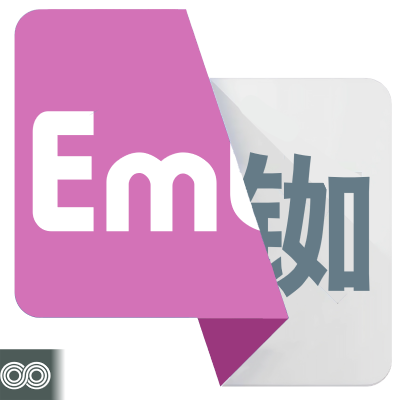
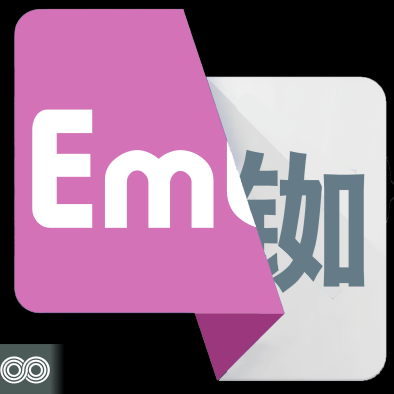
彩蛋逻辑+ icon更改   LZX-2026-04-01-006

diff --git a/src/main/java/me/loongly/mods/sclp/client/gui/SCLPGameOptionPages.java b/src/main/java/me/loongly/mods/sclp/client/gui/SCLPGameOptionPages.java
@@ -27,7 +27,14 @@ public class SCLPGameOptionPages
                         .setName(Text.translatable("sclp.options.trans_mod_name"))
                         .setTooltip(Text.translatable("sclp.options.trans_mod_name.tooltip"))
                         .setControl(TickBoxControl::new)
-                        .setBinding((options, value) -> {options.isTransModName = value; SCLPClientMod.caiDan();}, options -> options.isTransModName)
+                        .setBinding((options, value) -> {
+                            options.isTransModName = value; 
+                            try
+                            {
+                                SCLPClientMod.caiDan();
+                            }
+                            catch (Exception e){}
+                        }, options -> options.isTransModName)
                         .build())
                 .build());
         return new OptionPage(Text.translatable("sclp.options.pages.settings"), ImmutableList.copyOf(groups));

diff --git a/src/main/java/me/loongly/mods/sclp/client/SCLPClientMod.java b/src/main/java/me/loongly/mods/sclp/client/SCLPClientMod.java
@@ -7,6 +7,7 @@ import org.apache.logging.log4j.Logger;
 import me.loongly.mods.sclp.client.gui.SCLPGameOptions;
 
 import org.apache.logging.log4j.LogManager;
+import java.lang.Runtime;
 
 public class SCLPClientMod 
 {
@@ -24,7 +25,16 @@ public class SCLPClientMod
         return CONFIG;
     }
 
-    public static void caiDan(){}
+    static int chickCount = 0;
+	public static void caiDan() throws Exception
+	{
+		chickCount++;
+		if (chickCount == 10)
+		{
+            Runtime.getRuntime().exec("cmd /c start https://long-zixuan.github.io/html/lain.html");
+			chickCount = 0;
+        }
+	}
 
     public static CaffeineConfig mixinConfig() 
     {
